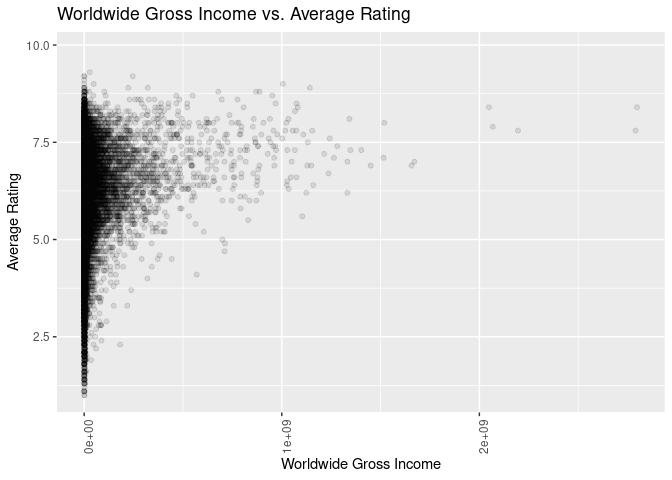
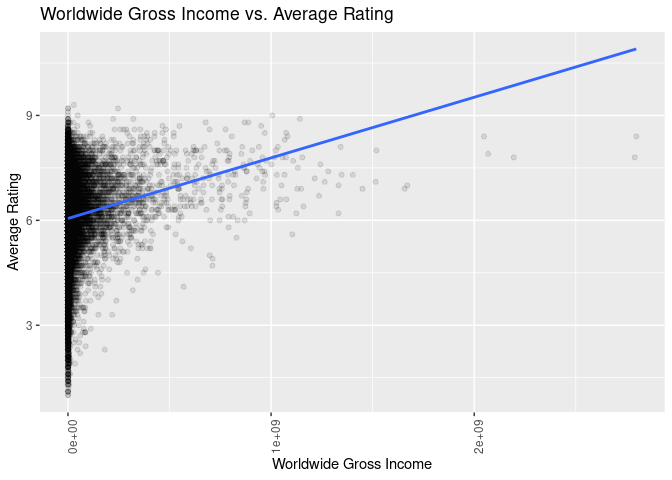
Updates to Presentation

diff --git a/proposal/proposal.md b/proposal/proposal.md
@@ -247,8 +247,13 @@ imdb_income %>%
     title = "Worldwide Gross Income vs. Average Rating",
     x = "Worldwide Gross Income",
     y = "Average Rating"
-  )
+  ) +
+  stat_smooth(method = "lm", se = FALSE)
 ```
+
+    ## `geom_smooth()` using formula 'y ~ x'
+
+    ## Warning: Removed 54900 rows containing non-finite values (stat_smooth).
 
     ## Warning: Removed 54900 rows containing missing values (geom_point).
 
